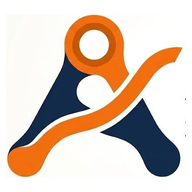
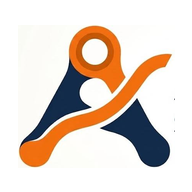
fix(pwa): mas margen en icono de app para look mas limpio

Changed region(s): [[0.0312, 0.0625, 0.9688, 0.9375], [0.6875, 0.75, 0.75, 0.8438]]

diff --git a/public/sw.js b/public/sw.js
@@ -1,5 +1,5 @@
 // Increment this when shipping a new release to force cache refresh.
-const CACHE_NAME = "apex-suspension-pwa-v30";
+const CACHE_NAME = "apex-suspension-pwa-v31";
 const APP_SHELL = [
   "/",
   "/manifest.webmanifest",
